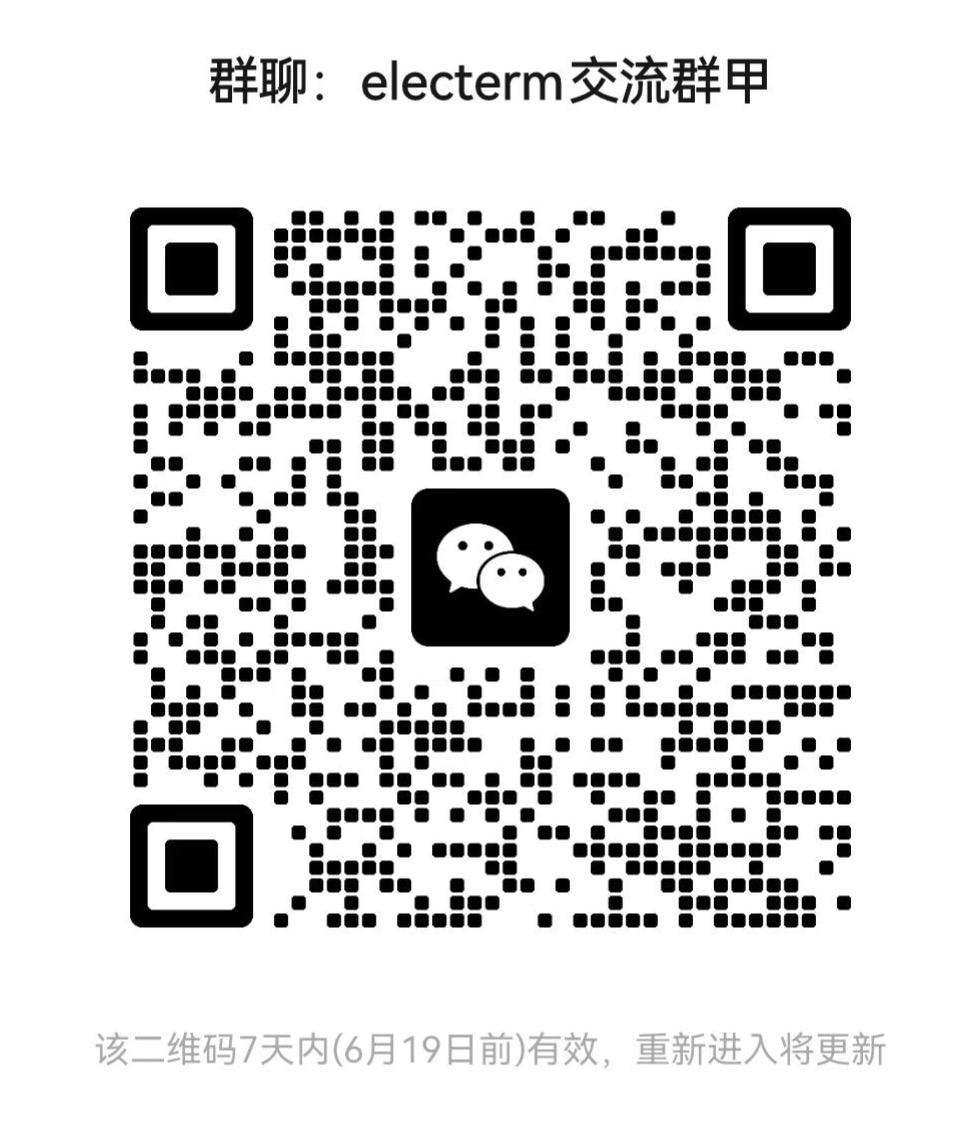
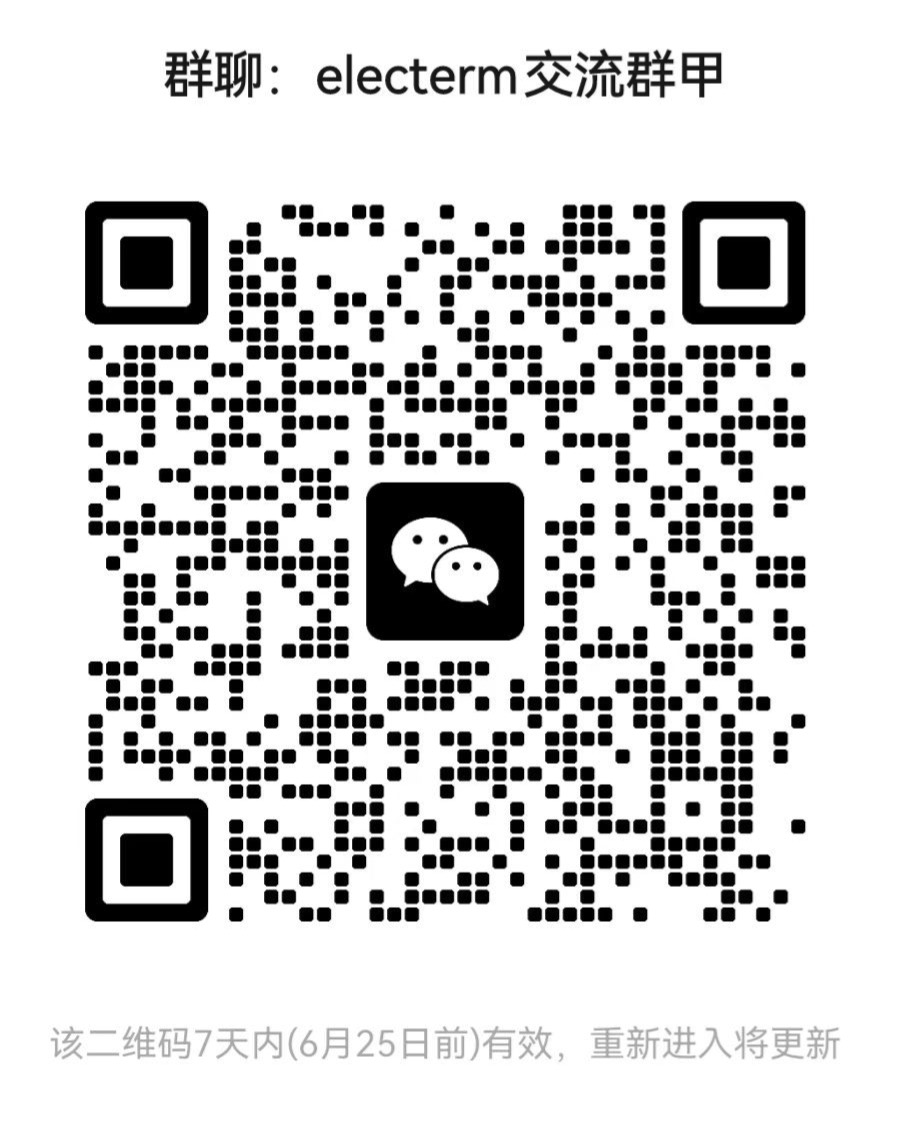
Update qrcode, add ref links

diff --git a/bin/data.js b/bin/data.js
@@ -202,6 +202,14 @@ export default {
     {
       url: 'https://gh-proxy.com',
       title: 'https://gh-proxy.com'
+    },
+    {
+      url: 'https://dartnode.com?aff=NuttyMonkey521',
+      title: 'DartNode'
+    },
+    {
+      url: 'https://www.digitalocean.com/?refcode=c10bcb28b846&utm_campaign=Referral_Invite&utm_medium=Referral_Program&utm_source=badge',
+      title: 'DigitalOcean'
     }
   ]
 }
